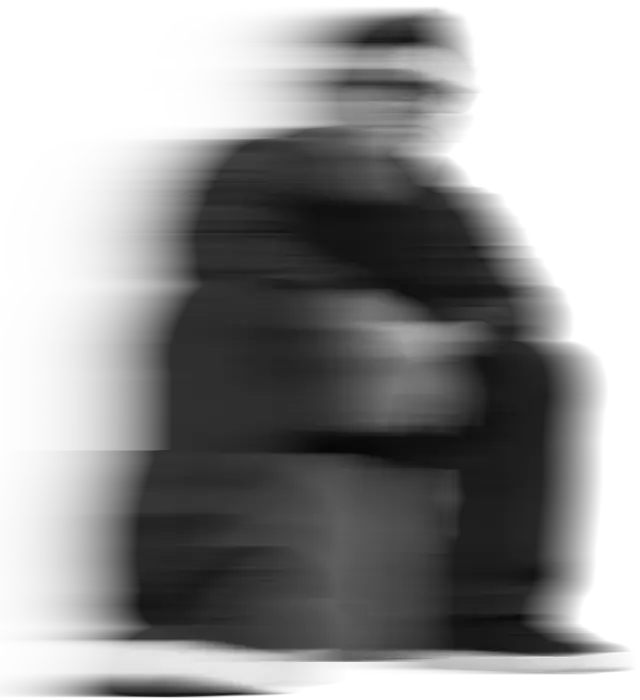
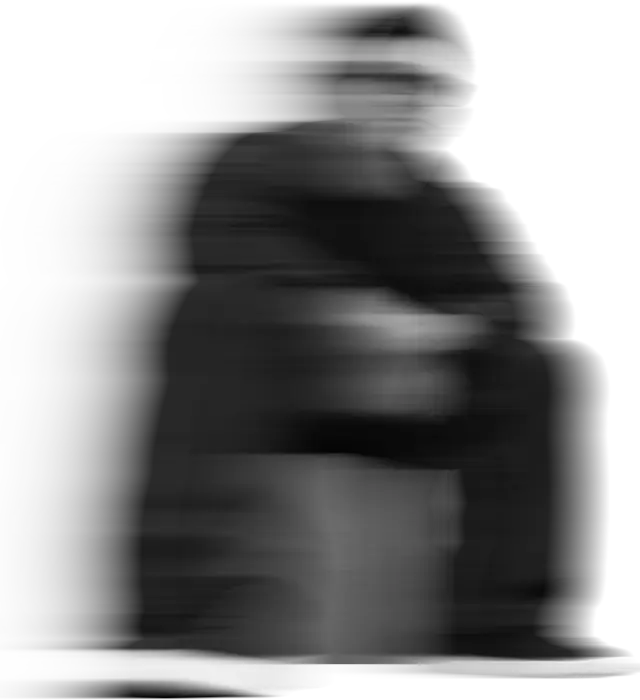
Hero portrait: left hand on top with black wedding band, clean cutout
Re-edited the B&W portrait so the left hand rests on top with a black
matte band on the ring finger and the background is plain, upscaled it
and rebuilt the cutout without the hand-erased patch that clipped the
left trouser leg. Moved the glasses LED and regenerated the motion trail
to match.

Claude-Session: https://claude.ai/code/session_01W5NmLrmCfpinZRZs12n3aL

diff --git a/index.html b/index.html
@@ -92,14 +92,14 @@
   .ghost { position: absolute; z-index: 3; bottom: 0; left: 50%; height: 72%; width: auto; max-width: none; transform: translateX(-74%); opacity: .45; pointer-events: none; }
 
   /* Figure + Meta Ray-Ban capture LED */
-  .figure { position: absolute; z-index: 4; left: 50%; bottom: 0; height: 88%; aspect-ratio: 993 / 1400; transform: translateX(-50%); pointer-events: none; }
+  .figure { position: absolute; z-index: 4; left: 50%; bottom: 0; height: 88%; aspect-ratio: 992 / 1400; transform: translateX(-50%); pointer-events: none; }
   .figure img { width: 100%; height: 100%; max-width: none; filter: drop-shadow(0 22px 26px rgba(0,0,0,.18)); }
-  .led { position: absolute; left: 49.9%; top: 9.8%; width: 44px; height: 44px; margin: -22px 0 0 -22px; border: 0; padding: 0; background: none; cursor: pointer; pointer-events: auto; border-radius: 50%; }
+  .led { position: absolute; left: 49.2%; top: 8.8%; width: 44px; height: 44px; margin: -22px 0 0 -22px; border: 0; padding: 0; background: none; cursor: pointer; pointer-events: auto; border-radius: 50%; }
   .led::before { content: ""; position: absolute; left: 50%; top: 50%; width: 6px; height: 6px; margin: -3px 0 0 -3px; border-radius: 50%; background: #fff; box-shadow: 0 0 6px 2px #fff, 0 0 16px 6px rgba(255,255,255,.75); animation: blink 1.6s steps(1, end) infinite; }
   .led::after { content: ""; position: absolute; inset: 8px; border-radius: 50%; border: 1px solid rgba(255,255,255,.0); transition: border-color .2s; }
   .led:hover::after, .led:focus-visible::after { border-color: rgba(255,255,255,.9); }
   .led:focus-visible { outline: none; }
-  .led-tip { position: absolute; left: calc(49.9% + 26px); top: calc(9.8% - 14px); white-space: nowrap; padding: 6px 10px; border-radius: 999px; background: var(--ink); color: #f6f5f2; font-size: 11px; letter-spacing: .08em; text-transform: uppercase; opacity: 0; transform: translateX(-6px); transition: opacity .25s, transform .25s; pointer-events: none; }
+  .led-tip { position: absolute; left: calc(49.2% + 26px); top: calc(8.8% - 14px); white-space: nowrap; padding: 6px 10px; border-radius: 999px; background: var(--ink); color: #f6f5f2; font-size: 11px; letter-spacing: .08em; text-transform: uppercase; opacity: 0; transform: translateX(-6px); transition: opacity .25s, transform .25s; pointer-events: none; }
   .led:hover + .led-tip, .led:focus-visible + .led-tip { opacity: 1; transform: none; }
   @keyframes blink { 0%, 55% { opacity: 1; } 56%, 100% { opacity: .08; } }
 
@@ -390,7 +390,7 @@
     <div class="streak" aria-hidden="true"></div>
     <img class="ghost" src="assets/charlie-trail.webp" alt="" aria-hidden="true">
     <div class="figure">
-      <img src="assets/charlie-bw-cutout.webp" alt="Black-and-white portrait of Charlie Hinojosa seated on a wooden block, wearing Ray-Ban Meta glasses.">
+      <img src="assets/charlie-bw-cutout.webp" alt="Black-and-white portrait of Charlie Hinojosa seated on a wooden block, wearing Ray-Ban Meta glasses, his left hand on top showing a black wedding band.">
       <button class="led" type="button" id="led" aria-haspopup="dialog" aria-controls="pov"><span class="sr">See through Charlie's Ray-Ban Meta glasses</span></button>
       <span class="led-tip" aria-hidden="true">“Hey Meta, record”</span>
     </div>
